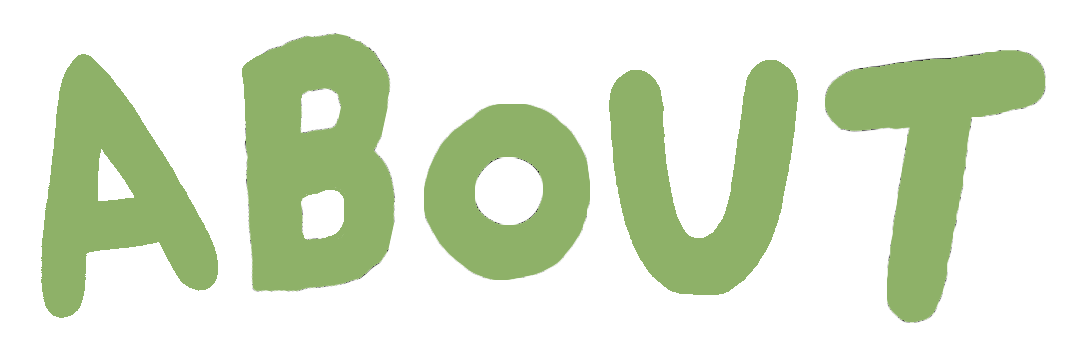
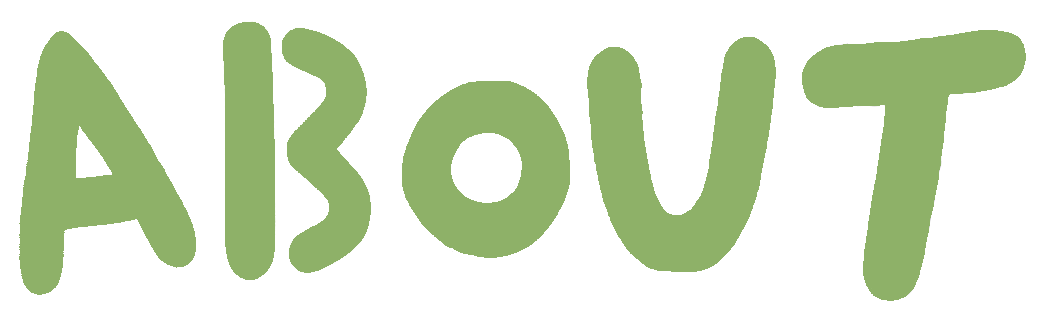
changed photos

diff --git a/about.html b/about.html
@@ -19,7 +19,7 @@
         <div class="container3"></div>
     </div>
 
-    <div class="about-header"><h1>About</h1></div>
+    <div class="about-header"><h1>About Me</h1></div>
 
     <div class="page-layout">
         <div class="page-body">
